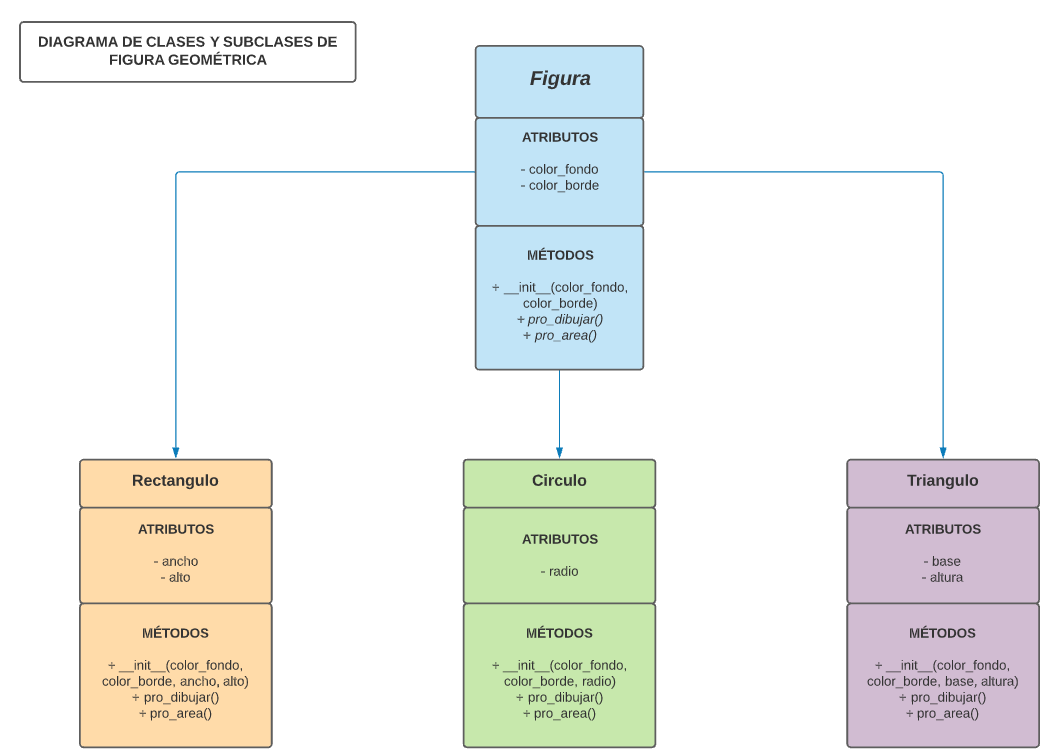
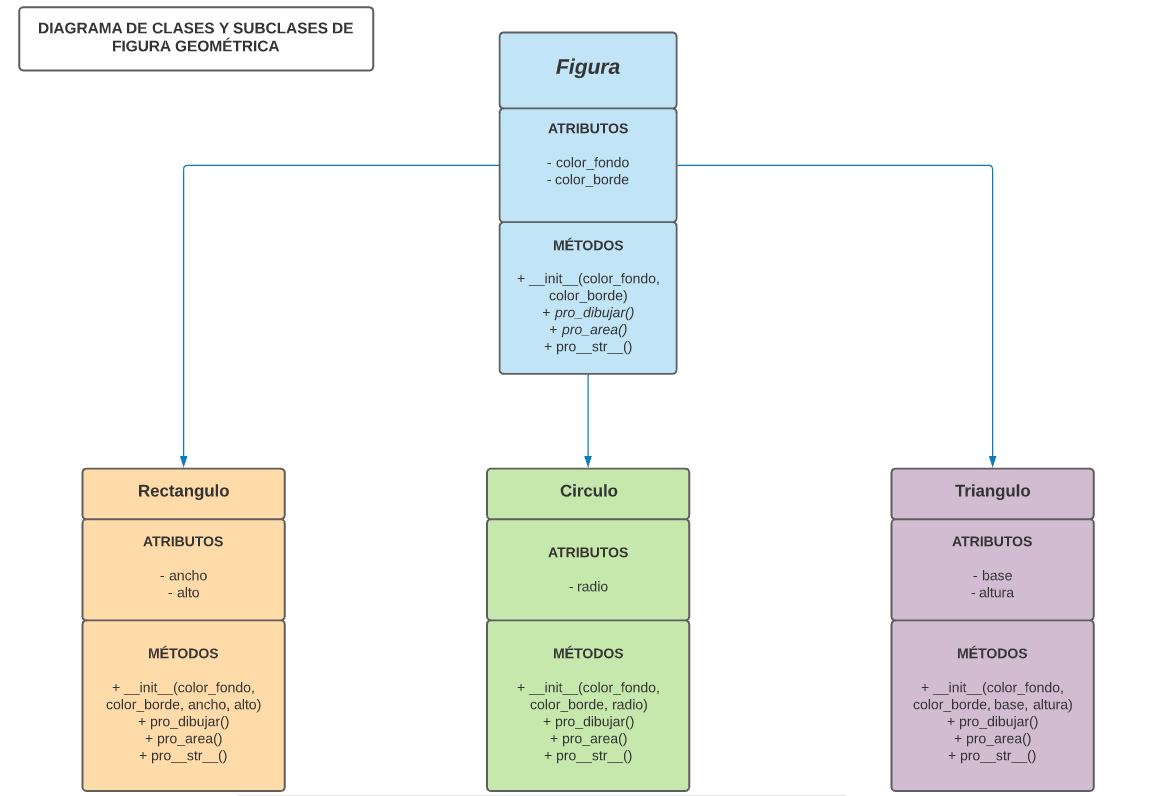
Curso Python

diff --git a/Unidad_16_POO/Proyectos/3 - Figura geométrica/clases/figura.py b/Unidad_16_POO/Proyectos/3 - Figura geométrica/clases/figura.py
@@ -15,6 +15,7 @@ Datos de la clase a crear.
 
         + Abstracto pro_dibujar().
         + Abstracto pro_area().
+        + pro__str__()
 """
 
 # Se importa la libreria "abc" para poder indicar la clase y los métodos como abstractos.

diff --git a/Unidad_16_POO/Proyectos/3 - Figura geométrica/clases/circulo.py b/Unidad_16_POO/Proyectos/3 - Figura geométrica/clases/circulo.py
@@ -18,6 +18,7 @@ Datos de la clase a crear.
 
         + pro_dibujar().
         + pro_area().
+        + pro__str__().
 """
 
 # Se importa la superclase Figura del archivo "figura.py".

diff --git a/Unidad_16_POO/Proyectos/3 - Figura geométrica/clases/rectangulo.py b/Unidad_16_POO/Proyectos/3 - Figura geométrica/clases/rectangulo.py
@@ -19,6 +19,7 @@ Datos de la clase a crear.
 
         + pro_dibujar().
         + pro_area().
+        + pro__str__().
 """
 
 # Se importa la superclase Figura del archivo "figura.py".

diff --git a/Unidad_16_POO/Proyectos/3 - Figura geométrica/clases/triangulo.py b/Unidad_16_POO/Proyectos/3 - Figura geométrica/clases/triangulo.py
@@ -19,6 +19,7 @@ Datos de la clase a crear.
 
         + pro_dibujar().
         + pro_area().
+        + pro__str__().
 """
 
 # Se importa la superclase Figura del archivo "figura.py".
